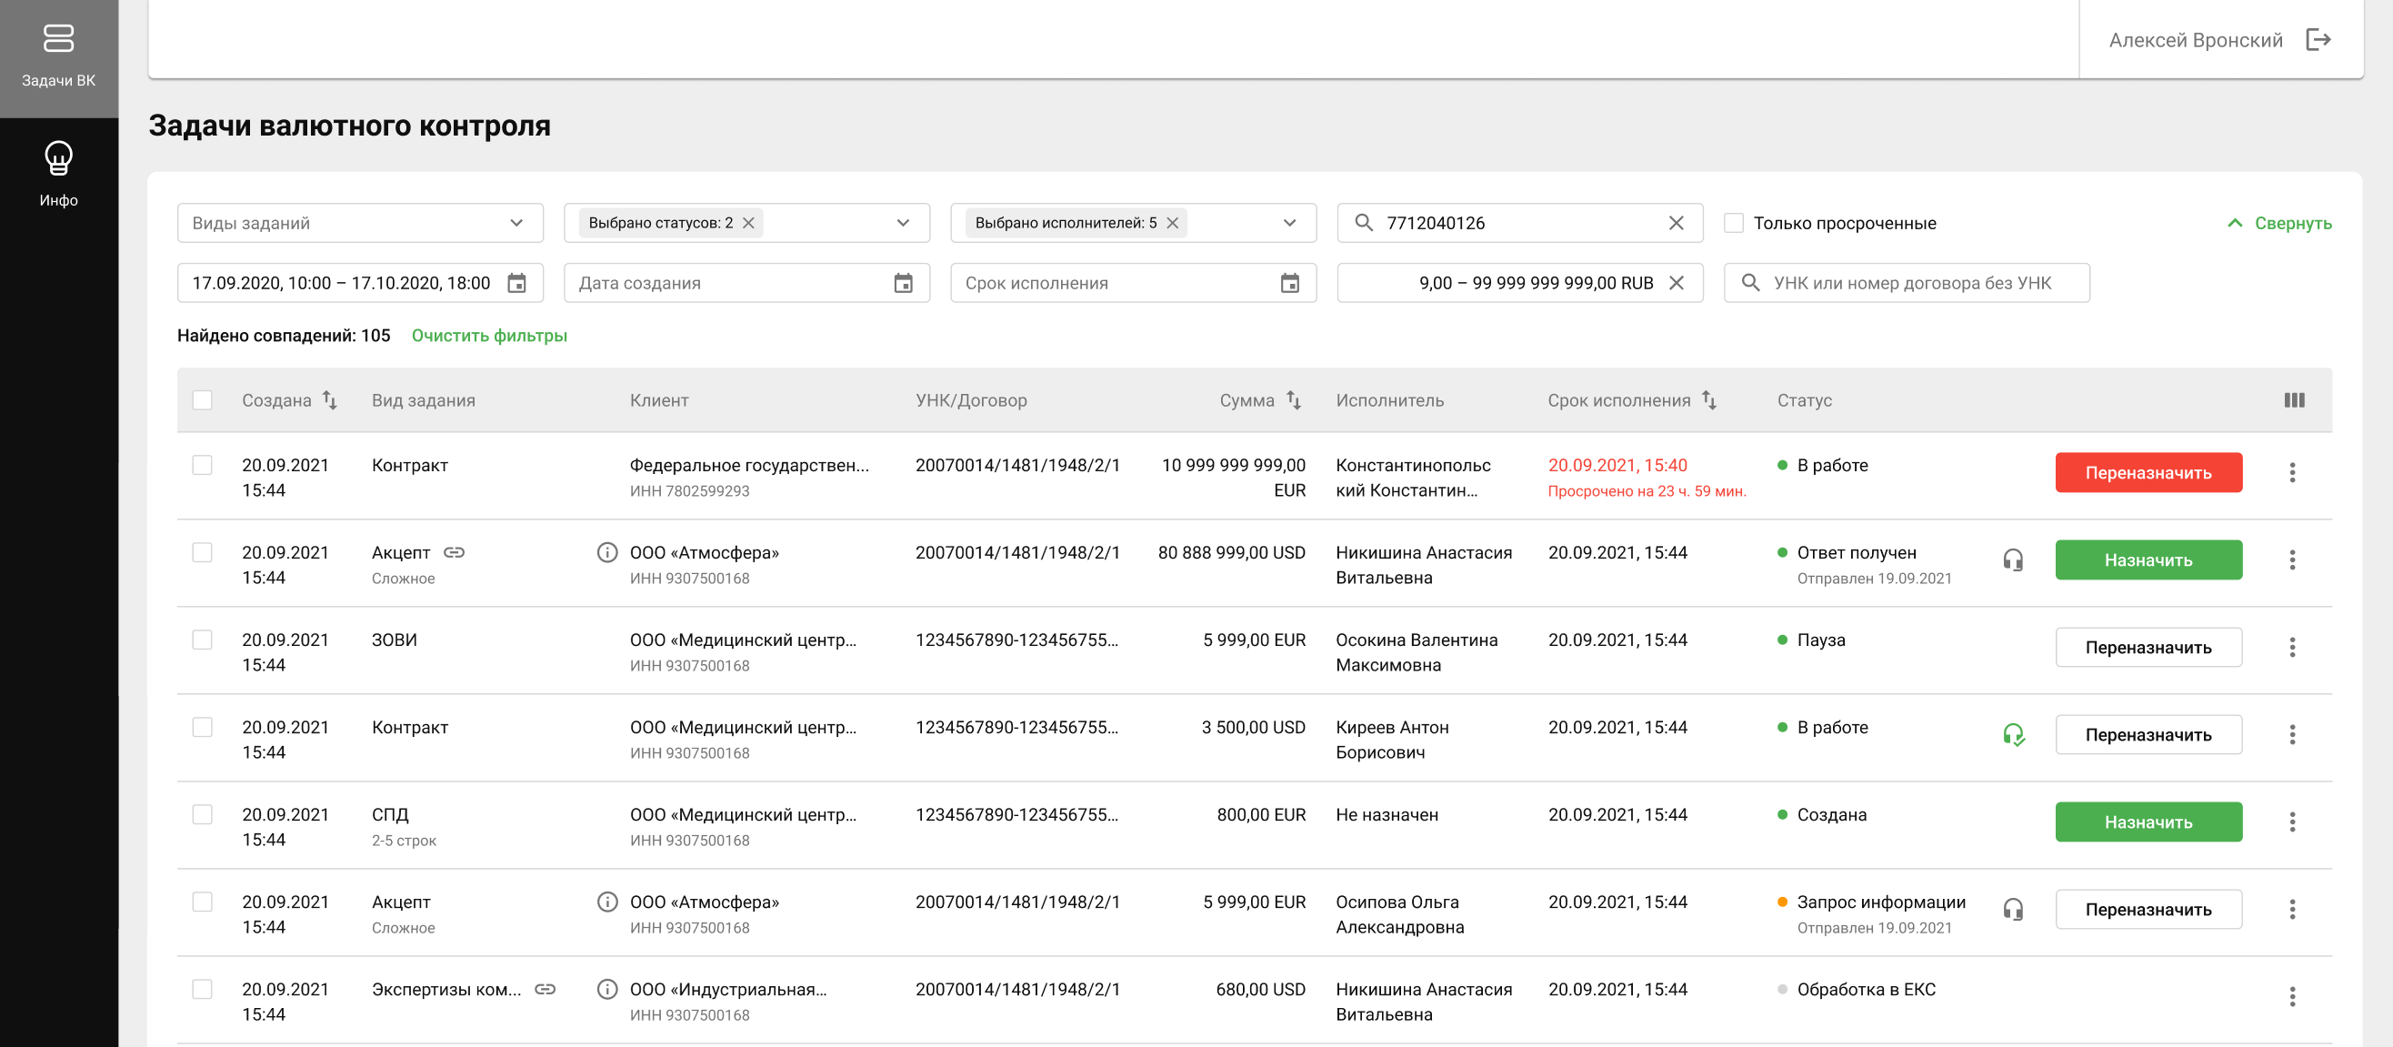
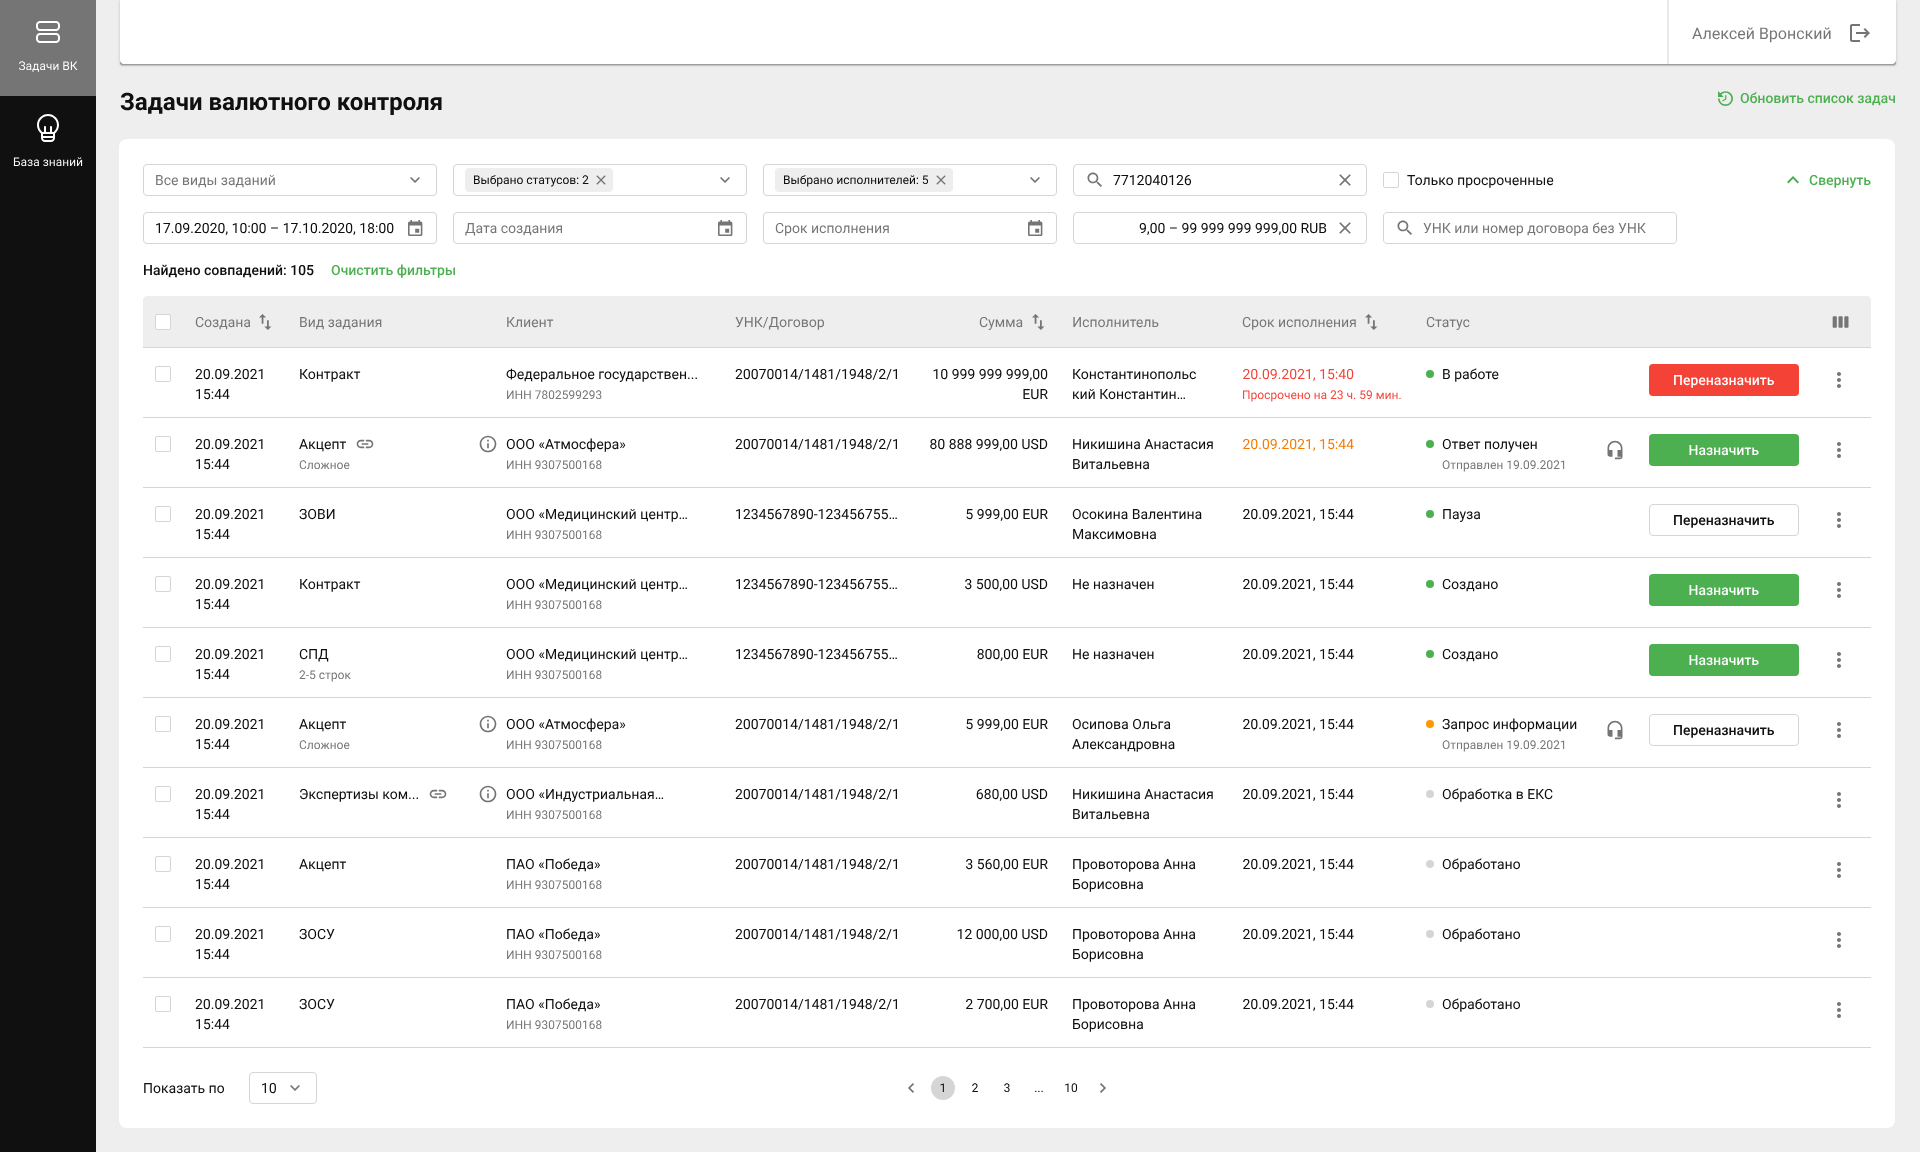
Unify case-cover hero height across all case pages, refresh covers 02/04
Case hero images previously rendered at each screenshot's own natural
aspect ratio, so page height jumped around (portrait covers like 06/07
towered over wide ones). Locked the cover box to 16/10 site-wide and
switched to width-fit scaling with bottom-only cropping, matching the
approach already used on the projects.html cards.

Also swapped in new covers for cases 02 (webp) and 04 (rasterized from
an oversized SVG per the 500KB rule).

diff --git a/docs/case-project-2.html b/docs/case-project-2.html
@@ -135,6 +135,8 @@ section:not(.bleed-dark):not(.bleed-blue) + section:not(.bleed-dark):not(.bleed-
 .shot-cta span{height:18px;width:64px;border-radius:9px;background:var(--shot-acc)}
 .shot-cta span:last-child{background:var(--shot-skel);width:46px}
 .case-cover{margin-top:44px;margin-bottom:44px}
+.case-cover .shot{aspect-ratio:16/10;min-height:0}
+.case-cover .shot-img{height:auto;flex-shrink:0}
 
 /* ============ TWO-COLUMN: требования / решения ============ */
 .case-cols{display:grid;grid-template-columns:1fr 1fr;gap:56px}
@@ -298,7 +300,7 @@ section:not(.bleed-dark):not(.bleed-blue) + section:not(.bleed-dark):not(.bleed-
 
       <div class="case-cover rv">
         <div class="shot shot-real" aria-hidden="true">
-          <div class="shot-frame"><img class="shot-img" src="images/previews/p2-cover.png" alt="" loading="lazy"></div>
+          <div class="shot-frame"><img class="shot-img" src="images/previews/p2-cover.webp" alt="" loading="lazy"></div>
         </div>
       </div>
     </div>

diff --git a/docs/projects.html b/docs/projects.html
@@ -360,7 +360,7 @@ section:not(.bleed-dark):not(.bleed-blue) + section:not(.bleed-dark):not(.bleed-
 
         <a class="pcard rv" href="case-project-2.html">
           <div class="pc-shot pc-real" aria-hidden="true">
-            <div class="shot-frame"><img src="images/previews/p2-cover.png" alt="" loading="lazy"></div>
+            <div class="shot-frame"><img src="images/previews/p2-cover.webp" alt="" loading="lazy"></div>
           </div>
           <div class="pc-body">
             <div class="pc-top"><span class="pc-num">02</span><span class="chip">B2B</span><span class="chip">Уведомления</span></div>

diff --git a/docs/case-project-1.html b/docs/case-project-1.html
@@ -135,6 +135,8 @@ section:not(.bleed-dark):not(.bleed-blue) + section:not(.bleed-dark):not(.bleed-
 .shot-cta span{height:18px;width:64px;border-radius:9px;background:var(--shot-acc)}
 .shot-cta span:last-child{background:var(--shot-skel);width:46px}
 .case-cover{margin-top:44px;margin-bottom:44px}
+.case-cover .shot{aspect-ratio:16/10;min-height:0}
+.case-cover .shot-img{height:auto;flex-shrink:0}
 
 /* ============ TWO-COLUMN: требования / решения ============ */
 .case-cols{display:grid;grid-template-columns:1fr 1fr;gap:56px}

diff --git a/docs/case-project-3.html b/docs/case-project-3.html
@@ -135,6 +135,8 @@ section:not(.bleed-dark):not(.bleed-blue) + section:not(.bleed-dark):not(.bleed-
 .shot-cta span{height:18px;width:64px;border-radius:9px;background:var(--shot-acc)}
 .shot-cta span:last-child{background:var(--shot-skel);width:46px}
 .case-cover{margin-top:44px;margin-bottom:44px}
+.case-cover .shot{aspect-ratio:16/10;min-height:0}
+.case-cover .shot-img{height:auto;flex-shrink:0}
 
 /* ============ TWO-COLUMN: требования / решения ============ */
 .case-cols{display:grid;grid-template-columns:1fr 1fr;gap:56px}

diff --git a/docs/case-project-4.html b/docs/case-project-4.html
@@ -135,6 +135,8 @@ section:not(.bleed-dark):not(.bleed-blue) + section:not(.bleed-dark):not(.bleed-
 .shot-cta span{height:18px;width:64px;border-radius:9px;background:var(--shot-acc)}
 .shot-cta span:last-child{background:var(--shot-skel);width:46px}
 .case-cover{margin-top:44px;margin-bottom:44px}
+.case-cover .shot{aspect-ratio:16/10;min-height:0}
+.case-cover .shot-img{height:auto;flex-shrink:0}
 
 /* ============ TWO-COLUMN: требования / решения ============ */
 .case-cols{display:grid;grid-template-columns:1fr 1fr;gap:56px}

diff --git a/docs/case-project-5.html b/docs/case-project-5.html
@@ -135,6 +135,8 @@ section:not(.bleed-dark):not(.bleed-blue) + section:not(.bleed-dark):not(.bleed-
 .shot-cta span{height:18px;width:64px;border-radius:9px;background:var(--shot-acc)}
 .shot-cta span:last-child{background:var(--shot-skel);width:46px}
 .case-cover{margin-top:44px;margin-bottom:44px}
+.case-cover .shot{aspect-ratio:16/10;min-height:0}
+.case-cover .shot-img{height:auto;flex-shrink:0}
 
 /* ============ TWO-COLUMN: требования / решения ============ */
 .case-cols{display:grid;grid-template-columns:1fr 1fr;gap:56px}

diff --git a/docs/case-project-6.html b/docs/case-project-6.html
@@ -135,6 +135,8 @@ section:not(.bleed-dark):not(.bleed-blue) + section:not(.bleed-dark):not(.bleed-
 .shot-cta span{height:18px;width:64px;border-radius:9px;background:var(--shot-acc)}
 .shot-cta span:last-child{background:var(--shot-skel);width:46px}
 .case-cover{margin-top:44px;margin-bottom:44px}
+.case-cover .shot{aspect-ratio:16/10;min-height:0}
+.case-cover .shot-img{height:auto;flex-shrink:0}
 
 /* ============ TWO-COLUMN: требования / решения ============ */
 .case-cols{display:grid;grid-template-columns:1fr 1fr;gap:56px}

diff --git a/docs/case-project-7.html b/docs/case-project-7.html
@@ -135,6 +135,8 @@ section:not(.bleed-dark):not(.bleed-blue) + section:not(.bleed-dark):not(.bleed-
 .shot-cta span{height:18px;width:64px;border-radius:9px;background:var(--shot-acc)}
 .shot-cta span:last-child{background:var(--shot-skel);width:46px}
 .case-cover{margin-top:44px;margin-bottom:44px}
+.case-cover .shot{aspect-ratio:16/10;min-height:0}
+.case-cover .shot-img{height:auto;flex-shrink:0}
 
 /* ============ TWO-COLUMN: требования / решения ============ */
 .case-cols{display:grid;grid-template-columns:1fr 1fr;gap:56px}

diff --git a/docs/case-project-8.html b/docs/case-project-8.html
@@ -135,6 +135,8 @@ section:not(.bleed-dark):not(.bleed-blue) + section:not(.bleed-dark):not(.bleed-
 .shot-cta span{height:18px;width:64px;border-radius:9px;background:var(--shot-acc)}
 .shot-cta span:last-child{background:var(--shot-skel);width:46px}
 .case-cover{margin-top:44px;margin-bottom:44px}
+.case-cover .shot{aspect-ratio:16/10;min-height:0}
+.case-cover .shot-img{height:auto;flex-shrink:0}
 
 /* ============ TWO-COLUMN: требования / решения ============ */
 .case-cols{display:grid;grid-template-columns:1fr 1fr;gap:56px}
